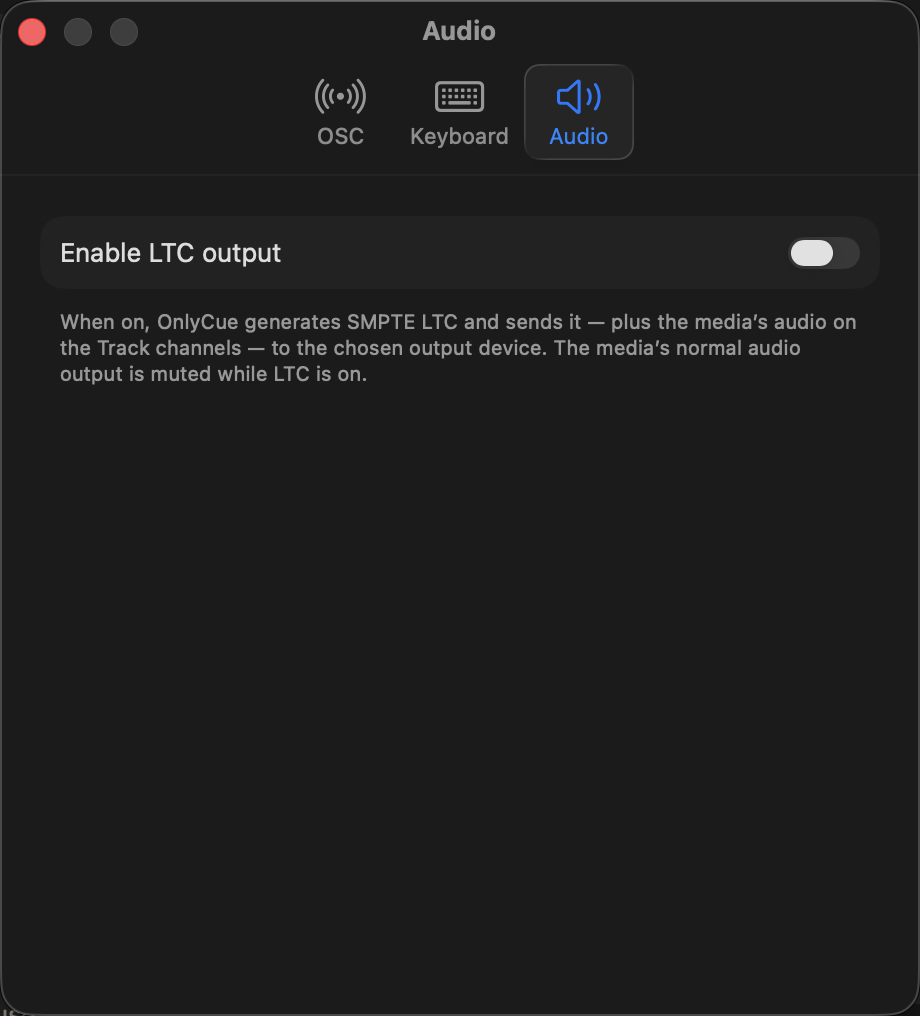
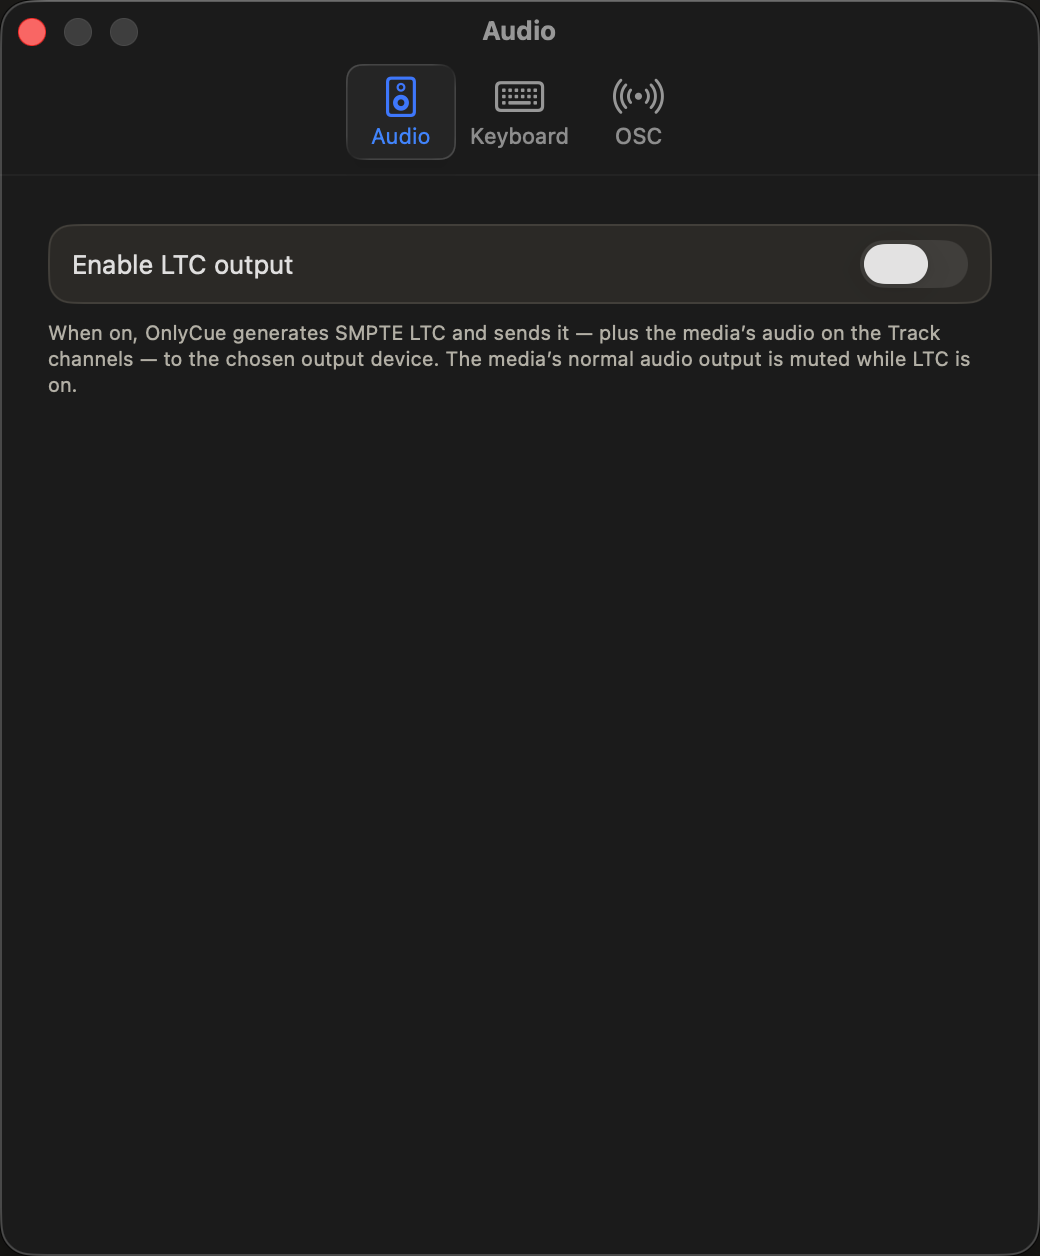
refactor(ui): rebuild Settings → Audio to Figma cards/dividers/switch
Match AudioSettingsView to Figma 321:2200:
- Enable LTC output is a right-aligned switch; its description sits below the
  card, not inside it
- Output device card: inline 'Output device' label + right-aligned popup, a
  divider, then bordered Refresh/Reset buttons; description below the card
- 'CHANNEL ASSIGNMENT' is a header above the card; channel rows are separated
  by in-card dividers with right-aligned role popups
- full-width cards whose rows manage their own insets so dividers span edge to
  edge; window narrowed to 520pt

All accessibility identifiers preserved. The screenshot test now self-enables
LTC before capturing (and toggles it back off) so the baseline shows the full
configured pane without leaving a persisted side effect. Timecode tab stays
deferred (#394); selected-tab tint stays cueIndigo (app DS).

diff --git a/OnlyCue/UI/AudioSettingsView.swift b/OnlyCue/UI/AudioSettingsView.swift
@@ -4,7 +4,9 @@ import SwiftUI
 /// when off (the default) OnlyCue emits no timecode and the routing UI is hidden;
 /// when on, pick the Core Audio output device the LTC generator uses and assign a
 /// role (`LTC` / `Track L` / `Track R` / `Silent`) to each of its output
-/// channels. Bound to `LTCRoutingStore.shared`.
+/// channels. Bound to `LTCRoutingStore.shared`. Laid out to Figma 321:2200:
+/// full-width cards with in-card dividers, inline row labels with right-aligned
+/// controls, and each section's explanatory footnote *below* its card.
 struct AudioSettingsView: View {
 
     @ObservedObject private var store = LTCRoutingStore.shared
@@ -29,16 +31,16 @@ struct AudioSettingsView: View {
     var body: some View {
         ScrollView {
             VStack(alignment: .leading, spacing: DS.Space.lg) {
-                enableCard
+                enableSection
                 if settings.isEnabled {
-                    deviceCard
-                    channelCard
+                    deviceSection
+                    channelSection
                     routingStatusCard
                 }
             }
             .padding(DS.Space.xl)
         }
-        .frame(width: 600, height: 420)
+        .frame(width: 520, height: 540)
         .accessibilityIdentifier("audioSettings")
         .onAppear {
             refreshDevices()
@@ -46,68 +48,83 @@ struct AudioSettingsView: View {
         }
     }
 
-    // MARK: Cards
+    // MARK: Sections
 
-    private var enableCard: some View {
+    private var enableSection: some View {
         VStack(alignment: .leading, spacing: DS.Space.sm) {
-            Toggle("Enable LTC output", isOn: enabledSelection)
-                .accessibilityIdentifier("enableLTCOutputToggle")
-            Text(
+            settingsCard {
+                settingsRow {
+                    Text("Enable LTC output").font(DS.Text.body)
+                    Spacer(minLength: DS.Space.sm)
+                    Toggle("Enable LTC output", isOn: enabledSelection)
+                        .labelsHidden()
+                        .toggleStyle(.switch)
+                        .tint(DS.Color.cueIndigo)
+                        .accessibilityIdentifier("enableLTCOutputToggle")
+                }
+            }
+            footnote(
                 "When on, OnlyCue generates SMPTE LTC and sends it — plus the media’s audio on the "
                 + "Track channels — to the chosen output device. The media’s normal audio output is "
                 + "muted while LTC is on."
             )
-            .font(.caption)
-            .foregroundStyle(DS.Color.textSecondary)
         }
-        .frame(maxWidth: .infinity, alignment: .leading)
-        .dsCard()
     }
 
-    private var deviceCard: some View {
+    private var deviceSection: some View {
         VStack(alignment: .leading, spacing: DS.Space.sm) {
-            Text("Output Device").dsSectionHeader()
-            Picker("Output device", selection: deviceSelection) {
-                Text("System Default").tag(String?.none)
-                ForEach(devices) { device in
-                    Text("\(device.name) — \(device.outputChannelCount) ch").tag(String?.some(device.uid))
+            settingsCard {
+                settingsRow {
+                    Text("Output device").font(DS.Text.body)
+                    Spacer(minLength: DS.Space.sm)
+                    Picker("Output device", selection: deviceSelection) {
+                        Text("System Default").tag(String?.none)
+                        ForEach(devices) { device in
+                            Text("\(device.name) — \(device.outputChannelCount) ch").tag(String?.some(device.uid))
+                        }
+                    }
+                    .labelsHidden()
+                    .frame(width: 230)
+                    .accessibilityIdentifier("audioOutputDevicePicker")
                 }
+                cardDivider
+                HStack(spacing: DS.Space.sm) {
+                    Button("Refresh Devices") { refreshDevices() }
+                    Spacer()
+                    Button("Reset Routing") { resetRouting() }
+                }
+                .buttonStyle(.bordered)
+                .padding(.horizontal, rowHorizontalPadding)
+                .padding(.vertical, DS.Space.sm)
             }
-            .labelsHidden()
-            .frame(maxWidth: .infinity, alignment: .leading)
-            .accessibilityIdentifier("audioOutputDevicePicker")
-
-            HStack {
-                Button("Refresh Devices") { refreshDevices() }
-                Spacer()
-                Button("Reset Routing") { resetRouting() }
-            }
-
-            Text(
+            footnote(
                 "The LTC generator plays onto the channel assigned “LTC”. "
                 + "A 4-channel interface can carry LTC on one channel and stereo track audio on two others."
             )
-            .font(.caption)
-            .foregroundStyle(DS.Color.textSecondary)
         }
-        .frame(maxWidth: .infinity, alignment: .leading)
-        .dsCard()
     }
 
-    private var channelCard: some View {
+    private var channelSection: some View {
         VStack(alignment: .leading, spacing: DS.Space.sm) {
             Text("Channel Assignment").dsSectionHeader()
-            ForEach(0..<channelCount, id: \.self) { channel in
-                Picker("Channel \(channel + 1)", selection: roleSelection(forChannel: channel)) {
-                    ForEach(ChannelRole.allCases, id: \.self) { role in
-                        Text(role.displayName).tag(role)
+            settingsCard {
+                ForEach(0..<channelCount, id: \.self) { channel in
+                    if channel > 0 { cardDivider }
+                    settingsRow {
+                        Text("Channel \(channel + 1)").font(DS.Text.body)
+                        Spacer(minLength: DS.Space.sm)
+                        Picker("Channel \(channel + 1)", selection: roleSelection(forChannel: channel)) {
+                            ForEach(ChannelRole.allCases, id: \.self) { role in
+                                Text(role.displayName).tag(role)
+                            }
+                        }
+                        .labelsHidden()
+                        .frame(width: 150)
+                        .accessibilityIdentifier("audioChannelRolePicker.\(channel)")
                     }
                 }
-                .accessibilityIdentifier("audioChannelRolePicker.\(channel)")
             }
         }
-        .frame(maxWidth: .infinity, alignment: .leading)
-        .dsCard()
     }
 
     @ViewBuilder
@@ -131,6 +148,38 @@ struct AudioSettingsView: View {
             .dsCard()
             .accessibilityIdentifier("audioNoTrackChannelsHint")
         }
+    }
+
+    // MARK: Building blocks
+
+    private let rowHorizontalPadding: CGFloat = DS.Space.md
+
+    /// A full-width sectioned card whose rows manage their own insets so the
+    /// in-card dividers span edge to edge (Figma 321:2200).
+    private func settingsCard<Content: View>(@ViewBuilder _ content: () -> Content) -> some View {
+        VStack(spacing: 0) { content() }
+            .frame(maxWidth: .infinity, alignment: .leading)
+            .background(RoundedRectangle(cornerRadius: DS.Radius.xl, style: .continuous).fill(DS.Color.panel))
+            .overlay(RoundedRectangle(cornerRadius: DS.Radius.xl, style: .continuous).strokeBorder(DS.Color.border, lineWidth: 1))
+            .clipShape(RoundedRectangle(cornerRadius: DS.Radius.xl, style: .continuous))
+    }
+
+    private func settingsRow<Content: View>(@ViewBuilder _ content: () -> Content) -> some View {
+        HStack(spacing: DS.Space.sm) { content() }
+            .padding(.horizontal, rowHorizontalPadding)
+            .padding(.vertical, DS.Space.sm)
+            .frame(maxWidth: .infinity, alignment: .leading)
+    }
+
+    private var cardDivider: some View {
+        DS.Color.border.frame(height: 1)
+    }
+
+    private func footnote(_ text: String) -> some View {
+        Text(text)
+            .font(.caption)
+            .foregroundStyle(DS.Color.textSecondary)
+            .frame(maxWidth: .infinity, alignment: .leading)
     }
 
     // MARK: Bindings

diff --git a/OnlyCueUITests/AudioSettingsScreenshotTests.swift b/OnlyCueUITests/AudioSettingsScreenshotTests.swift
@@ -55,8 +55,25 @@ final class AudioSettingsScreenshotTests: XCTestCase {
             _ = app.otherElements["audioSettings"].waitForExistence(timeout: 3)
         }
 
+        // Enable LTC so the output-device + channel-assignment cards render —
+        // the capture then matches the configured state in Figma 321:2200.
+        let toggle = app.switches["enableLTCOutputToggle"].exists
+            ? app.switches["enableLTCOutputToggle"]
+            : app.checkBoxes["enableLTCOutputToggle"]
+        let enabledForCapture = toggle.waitForExistence(timeout: 3) && (toggle.value as? String) != "1"
+        if enabledForCapture {
+            toggle.click()
+            _ = app.popUpButtons["audioChannelRolePicker.0"].waitForExistence(timeout: 3)
+        }
+
         Thread.sleep(forTimeInterval: 0.9)
         try captureScreenshot(named: screenshotName, window: SettingsWindowFinder.window(in: app))
+
+        // Restore the LTC-off default so this capture leaves no persisted side
+        // effect for other tests (e.g. the SMPTE-gating test) or the user's app.
+        if enabledForCapture, (toggle.value as? String) == "1" {
+            toggle.click()
+        }
         app.terminate()
     }
 
